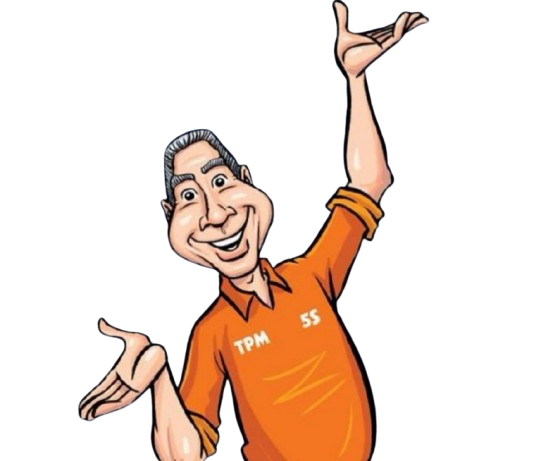
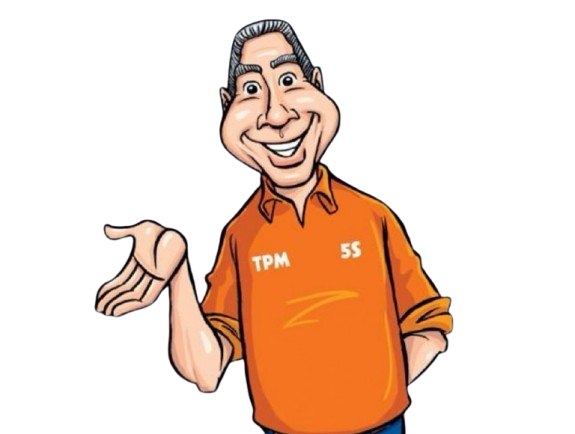
🎨 chore: replace mentor-comemora with boasvindas, fix mentor frame offsets

diff --git a/frontend/src/game/mentor/Mentor.tsx b/frontend/src/game/mentor/Mentor.tsx
@@ -10,8 +10,8 @@ import type { MentorMood } from '../../types'
 export const MENTOR_FRAME: Record<MentorMood, string> = {
   boasvindas: 'translate(5%, 4%) scale(1.1) rotate(0deg)',
   comemora:   'translate(10%, -8%) scale(1.3)  rotate(6deg)',
-  aprova:     'translate(3%, -5%)  scale(1.05) rotate(0deg)',
-  pergunta:   'translate(3%, -5%)  scale(1.05) rotate(0deg)',
+  aprova:     'translate(3%, 4%)   scale(1.05) rotate(0deg)',
+  pergunta:   'translate(3%, 8%)   scale(1.05) rotate(0deg)',
 }
 
 export function Mentor(): JSX.Element {